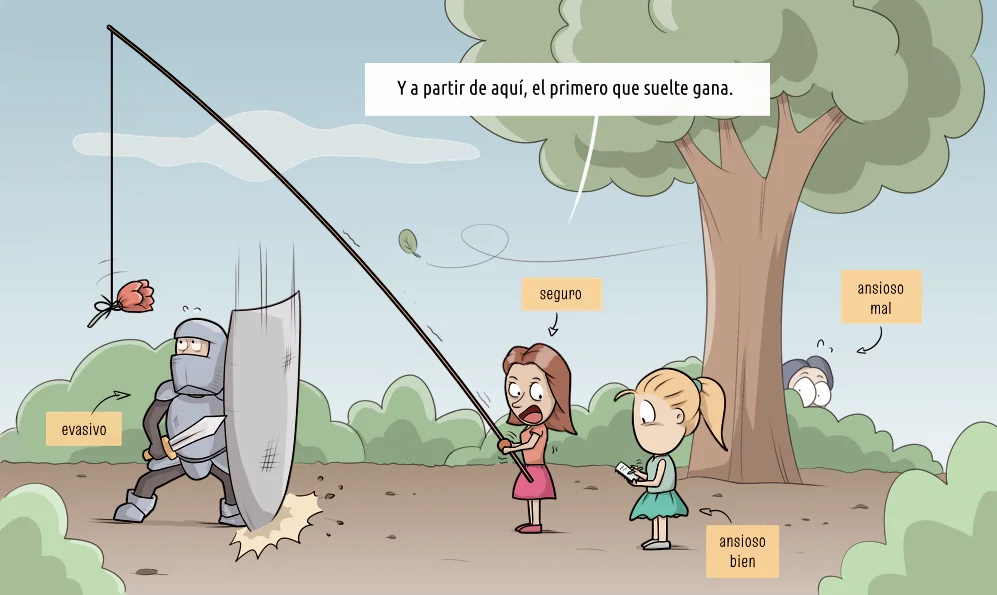
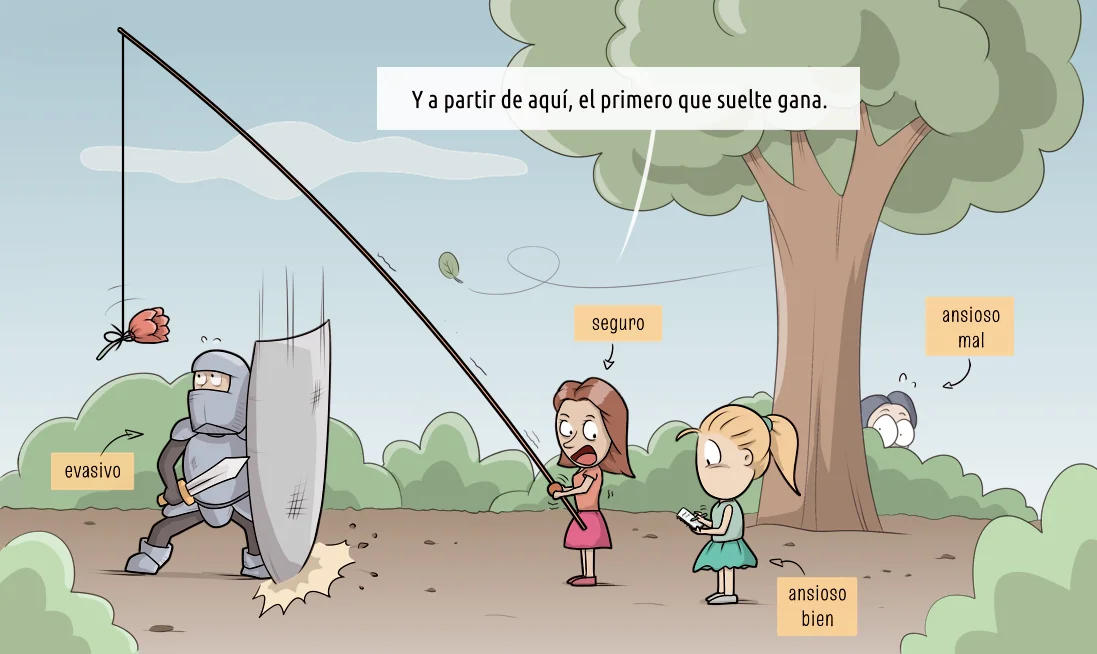
redib

diff --git a/src/content/posts/2023/estilos-de-apego/index.md b/src/content/posts/2023/estilos-de-apego/index.md
@@ -4,19 +4,7 @@ description: "¿Nos hemos vuelto ya locos?"
 authors: ["Dra. Valina", "Natilla"]
 date: 2023-11-12T11:08:00.000+02:00
 categories: [ "Dibuixos" ]
-image: ./cover.webp
+image: ./apego.webp
 draft: false
-tags: ["apego", "psicologia"]
+tags: ["psicologia"]
 ---
-
-La idea general de la **teoría del apego** (John Bowlby, Mary Ainsworth) es que de pequeños nos vinculamos a figuras protectoras de las que recibimos (o no) una base segura para explorar el mundo. Si esas figuras transmiten seguridad, los niños crecen psicológicamente "sanos". Si no, delinquen o hacen dibujos.
-
-Croquis de los tipos de apego:
-
-- **Apego seguro**: El niño explora el entorno aún en ausencia de las figuras de apego. Confianza en la predecibilidad y seguridad del vínculo.
-- **Apego inseguro ansioso o ambivalente**: El niño siente miedo ante la ausencia de las figuras de apego e interrumpe la exploración del entorno. Figuras de apego impredecibles, dependencia emocional.
-- **Apego inseguro evitativo o evasivo**: El niño muestra indiferencia ante la ausencia de las figuras de apego pero se detecta ansiedad latente (posición defensiva). Rechazo, inexpresión emocional o aversión al contacto físico por parte de las figuras de apego. Genera incapacidad/dificultad para vincularse.
-- **Apego inseguro desorganizado**: Comportamiento bipolar y contradictorio en las relaciones, en ocasiones oscilando entre ansioso y evitativo. Abusos y experiencias traumáticas con las figuras de apego.
-
-
-![Estilos de apego](apego.webp "Estilos de apego")
